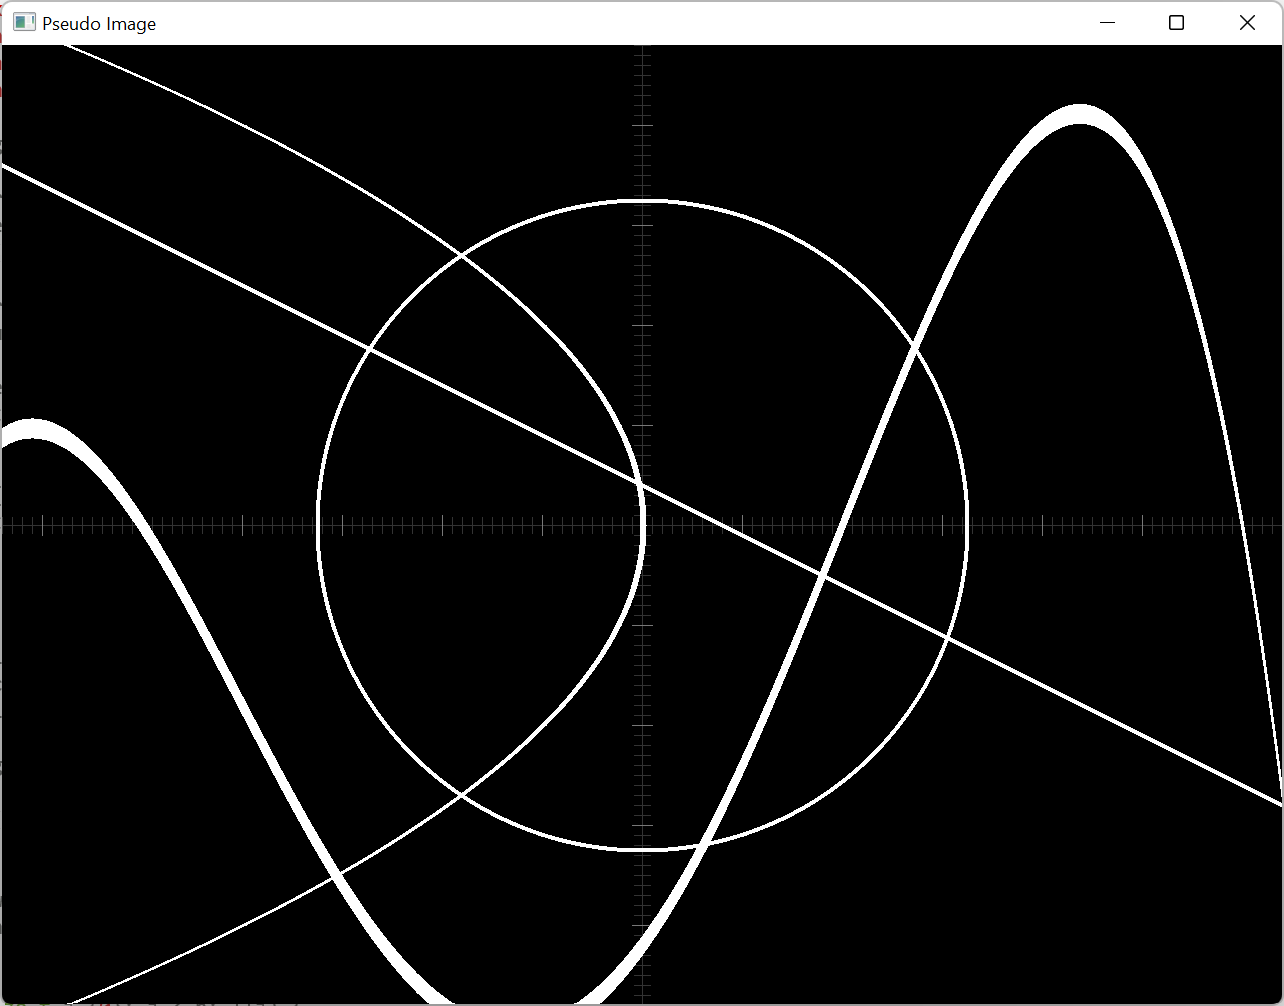
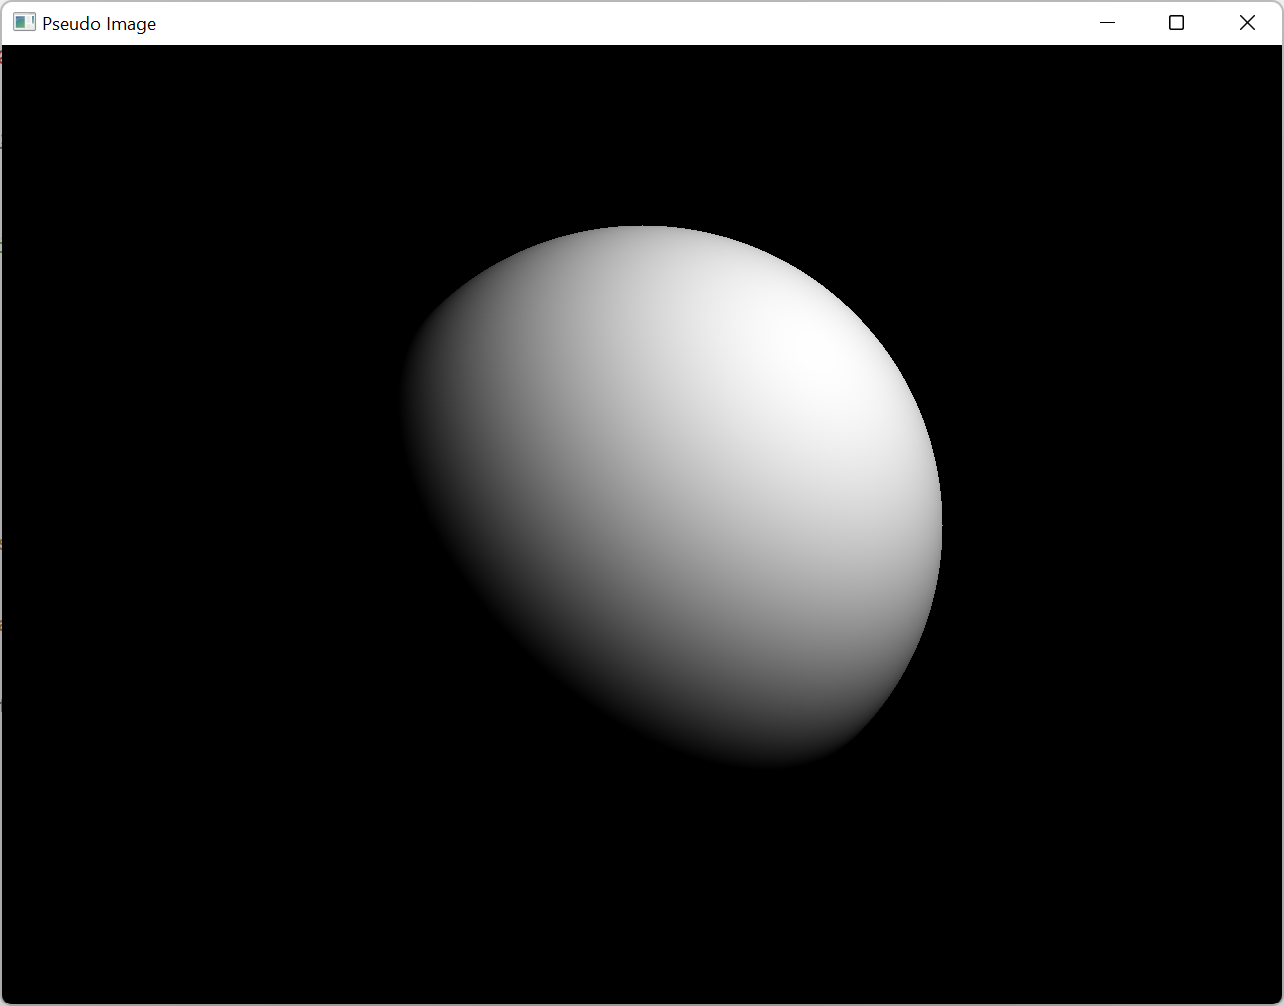
Sphere

diff --git a/main.cc b/main.cc
@@ -7,49 +7,67 @@ winfo;
 
 #include <GL/gl3w.h>
 #include <new>
+#include <cmath>
 
-class {
-private:
-	GLuint fragment(int x, int y) {
+struct image_t {
+	double r, rr;
+	double bx, by, bz, bb;
+	double rrpbb;
+	double lx, ly, lz;
+
+	image_t() {
+		r = 300.0;
+		bx = 0.0;
+		by = 0.0;
+		bz = -1.0;
+		bb = bx*bx+by*by+bz*bz;
+		rr = r*r;
+		rrpbb = rr/bb;
+		lx = -1.0;
+		ly = -1.0;
+		lz = -1.0;
+		double const sll {std::sqrt(lx*lx+ly*ly+lz*lz)};
+		lx /= sll;
+		ly /= sll;
+		lz /= sll;
+	}
+
+	GLuint fragment(double ax, double ay) {
 		GLuint color {0x000000};
 
-		/* x-axis */
-		if (y == 0)
-			color = 0x333333;
-		/* x-axis 10 unit */
-		if (x != 0 && x %  10 == 0 && std::abs(y)  <= 8)
-			color = 0x333333;
-		/* x-axis 100 unit */
-		if (x != 0 && x % 100 == 0 && std::abs(y) <= 10)
-			color = 0x777777;
+		double const az {r};
+		double const aa {ax*ax+ay*ay+az*az};
+		double const ab {ax*bx+ay*by+az*bz};
 
-		/* y-axis */
-		if (x == 0)
-			color = 0x333333;
-		/* y-axis 10 unit */
-		if (y != 0 && y %  10 == 0 && std::abs(x) <=  8)
-			color = 0x333333;
-		/* y-axis 100 unit */
-		if (y != 0 && y % 100 == 0 && std::abs(x) <= 10)
-			color = 0x777777;
+		double const abpbb {ab/bb};
+		double const d {abpbb*abpbb - aa/bb + rrpbb};
 
-		/* line */
-		if (std::abs(y+40 - 0.5*x) <= 2)
+		if (d >= 0) {
+			double const sd {std::sqrt(d)};
+			double const t {std::min(-abpbb-sd,-abpbb+sd)};
+			if (t < 0)
+				goto jmp;
+
+			double nx {ax+bx*t};
+			double ny {ay+by*t};
+			double nz {az+bz*t};
+			double const snn {std::sqrt(nx*nx+ny*ny+nz*nz)};
+			nx /= snn;
+			ny /= snn;
+			nz /= snn;
+
+			double const m {std::max(0.0, -lx*nx-ly*ny-lz*nz)};
 			color = 0xffffff;
-		/* circle */
-		if (std::abs(x*x+y*y - 325*325) <= 1300)
-			color = 0xffffff;
-		/* parabola */
-		if (std::abs(x-1 + 0.0025*y*y) <= 3)
-			color = 0xffffff;
-		/* polynomial */
-		if (std::abs(y - 0.00000001*(x+700)*(x+500)*(x-200)*(x-600)) <= 10)
-			color = 0xffffff;
+			GLuint const r {static_cast<GLuint>((color&0xff0000)*m)&0xff0000};
+			GLuint const g {static_cast<GLuint>((color&0x00ff00)*m)&0x00ff00};
+			GLuint const b {static_cast<GLuint>((color&0x0000ff)*m)&0x0000ff};
+			color = r | g | b;
+		}
+		jmp:
 
 		return color | 0xff000000;
 	}
 
-public:
 	GLuint* data {nullptr};
 	size_t w;
 	size_t h;
@@ -65,7 +83,7 @@ public:
 			this->w = w;
 			this->h = h;
 
-			auto y {static_cast<int>(h)/-2};
+			auto y {-static_cast<int>(h)/-2};
 			size_t j {0};
 			while (j < h) {
 				auto x {static_cast<int>(w)/-2};
@@ -75,7 +93,7 @@ public:
 					x += 1;
 					i += 1;
 				}
-				y += 1;
+				y -= 1;
 				j += 1;
 			}
 
